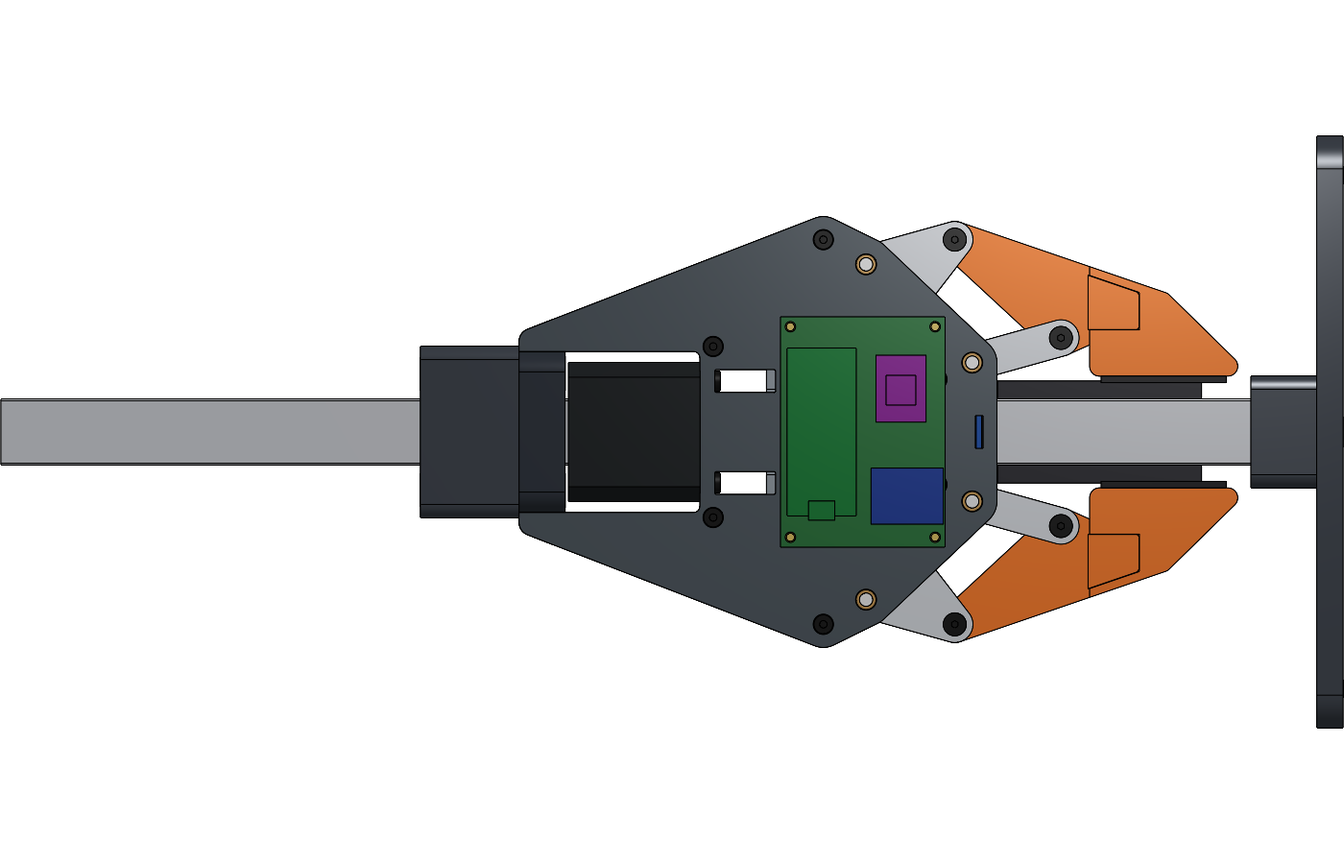
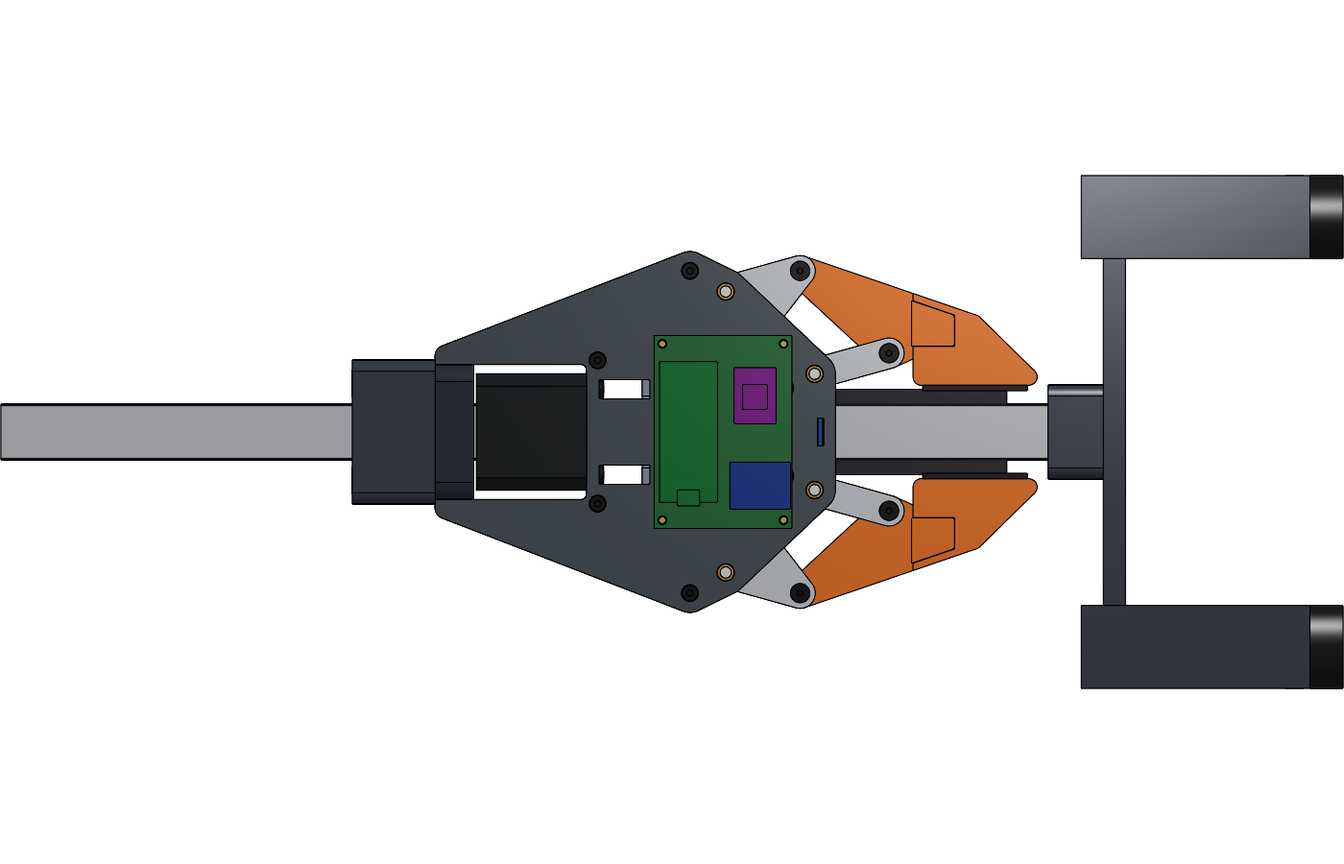
Desk clamps for the bench stand (40 x 40 mm desk edge)
- 2 printed C-clamps hook over the base's front corners: the upper arm
  sits on the base with a boss in the corner counterbore, the spine runs
  down in front of the desk edge, and an M8 star knob in a captive nut
  pushes a printed pad up under the 40 mm black edge, 20 mm behind its
  front face; grips desks 24-49 mm thick
- Clamp checks at a hand-tight 400 N: spine SF 2.7, lower arm 2.6
- Prints 22/23 (clamps, on their side), 24 (pads); BOM P29/P30; assembly
  step; FeatureScript stand parts appended at the end
- 84 parts, 0 collisions for both tip sets; GripperV2 updated (SHA-256
  2247dc24e097f38b, 84 instances, 21/21 features OK, evCollision clean)

Changed region(s): [[0.0, 0.1556, 1.0, 0.8711]]

diff --git a/gripper_fabrication_rev7/source/make_docs.py b/gripper_fabrication_rev7/source/make_docs.py
@@ -40,6 +40,8 @@ bom = [
  ('P22', 'Resistors 100 k + 27 k (battery divider into Pico ADC0) + 10 k (EN pull-up), 100 nF at ADC0, 100 uF 35 V capacitor at TMC2209 VM', 1, ''),
  ('P23', '2020 aluminium extrusion, 400 mm (V-slot or T-slot)', 1, 'Bench stand column'),
  ('P24', 'M5 drop-in T-nut + M5 x 12 screw (4), M5 x 16 screw (1), 4 bench screws or M5 bolts', 1, 'Head bracket to column (2), base socket to column (2), base to column end (1, tap the end M5); base to the bench (4)'),
+ ('P29', 'M8 x 40 star knob screw (male thread) + M8 hex nut', 2, 'Desk clamps (nut drops into the slot in each clamp)'),
+ ('P30', 'Self-adhesive felt pads, about 25 mm', 4, 'On the clamp pads and under the base front corners, to protect the desk'),
  ('P25', 'M6 x 20 socket head cap screw ISO 4762 + M6 hex nut', 4, 'Adapter to the stand head bracket (nuts drop into the bracket from the back)'),
  ('P26', 'TPU 95A filament', 1, 'Contact pads (18_Pad_TPU95A, 4 pcs)'),
 ]
@@ -81,7 +83,7 @@ A(f'- **Trade-offs of the longer tips:** the gripper is {D.TIP_EXT:.0f} mm longe
 A(f'- **C, encoder:** AS5600 with a 6 × 2.5 mm diametric magnet in a printed puck at the screw end (screw cut {D.ENC_CUT:.0f} mm shorter). The board stands in a slot across the bearing block, {D.ENC_GAP} mm air gap; the block bolts moved to ears at the rear of the block.')
 A('- **D, controller:** Pico + TMC2209 + 5 V buck + battery divider on a 50 × 70 mm protoboard, on 4 standoffs in heat-set inserts in the cover top. USB serial to ROS 2.')
 A(f'- **A, drive:** Tr8×8 (lead {D.LEAD:.0f} mm): {W["screw_turns"]:.1f} turns over the stroke, {D.STEPS_PER_MM:.0f} steps/mm, {drv["speed_note"]}. Driver {drv["I_set_rms_A"]} A RMS. Not self-locking.')
-A('- **F, bench stand:** the gripper hangs jaws-down from a 2020 × 400 mm column: printed head bracket on the ISO 9409 adapter, printed 180 × 170 mm base with 4 holes to fix it to the bench (fix it: unclamped, a few newtons at gripper height tip it over). The battery is strapped to the column, away from the jaws. Slide the bracket to set the height.')
+A('- **F, bench stand:** the gripper hangs jaws-down from a 2020 × 400 mm column: printed head bracket on the ISO 9409 adapter, printed 180 × 170 mm base, clamped to the desk edge by 2 printed C-clamps with M8 star knobs (sized for a 40 mm edge, 24–49 mm range); unclamped, a few newtons at gripper height would tip it over. The battery is strapped to the column, away from the jaws. Slide the bracket to set the height.')
 A(f'- **Power:** 3S LiPo (about 650 mAh, XT30) → 3 A fuse → switch → TMC2209 VM and the buck → Schottky → Pico VSYS. The battery divider sits after the switch (no drain when off). Firmware stops the motor below 10.5 V; a balance-lead alarm warns before the cells go too low, and the switch must be turned off after use (the Pico and buck still draw current).')
 A(f'- **Material:** printed parts in {D.MAT} (taken as {D.MAT_SY:.0f} MPa); pads in TPU 95A.\n')
 A('| Pico pin | Connects to |\n|---|---|')
@@ -206,7 +208,7 @@ for i, s_ in enumerate([
  'Tip blocks: slide a TPU pad into the tip block groove from the rear and press until the barb at its rear end snaps past the step at the groove entrance (a drop of soapy water helps; pliers to remove), push the tip block up onto the finger tongue from below and fit 2× M3×10 from below through its floor. To change sets, take the 2 screws out and slide the block off downward.',
  'Cover: put slow-cure epoxy in the 4 oversize cover holes, lower the cover over the sleeves and dowels, fit all its screws, and let the epoxy cure with the gripper assembled (the sleeves bond to the cover where the dowels really are). 2× M3×20 at the motor wall, 2× M3×20 at the bearing-block ears, 2× M3×8 at the posts, then the 2 upper motor screws (M3×8) through the cover slots.',
  'Controller: screw the 4 standoffs into the cover-top inserts and fit the protoboard (Pico, TMC2209, buck, divider; see the wiring table) with 4× M3×6. Zip-tie each cable (USB, battery, motor, encoder) to the board grid as strain relief.',
- 'Bench stand: column into the base socket, M5×16 from below into the column end (tap it M5) and 2× M5×12 through the socket walls into T-nuts. Screw or bolt the base to the bench through its 4 corner holes. Slide the head bracket onto the column and lock it with 2× M5×12 into T-nuts. Drop 4 M6 nuts into the bracket pockets from the back. Strap the battery to the column (side away from the gripper) and plug in the balance-lead alarm.',
+ 'Bench stand: column into the base socket, M5×16 from below into the column end (tap it M5) and 2× M5×12 through the socket walls into T-nuts. Desk clamps: drop an M8 nut into the slot of each clamp and thread the star knob in from below; put the front edge of the base flush with the front edge of the desk, hook a clamp over each front corner (its boss drops into the corner counterbore) and tighten the knobs by hand under the black edge. Slide the head bracket onto the column and lock it with 2× M5×12 into T-nuts. Drop 4 M6 nuts into the bracket pockets from the back. Strap the battery to the column (side away from the gripper) and plug in the balance-lead alarm.',
  'Bolt the adapter first: to a robot flange with 4× M6×12, or to the stand head bracket with 4× M6×20 into the nuts. Slide the gripper onto it (the U-slot is open at the rear) and fit 4× M3×8 through the side walls into the adapter inserts.',
  'Driver: set the VREF pot to %.2f A RMS full scale (section 4a), 1/16 µstep (%.0f steps/mm). Home at 0.3 A and 10 mm/s into the open stop (carriage meets the bearing block at 66 mm), detecting the stop with the encoder, then back off 1 mm; the AS5600 then tracks screw turns (4 over the full stroke). In use, cap the commanded opening at 60 mm (80 mm pad gap with the wide tips) so the carriage never hits the stop at speed. Keep the hold current on while gripping (the Tr8×8 is back-drivable). Stop the motor below 10.5 V on the battery monitor. Calibrate grip once with a kitchen scale between the jaws.' % (S['driver']['I_set_rms_A'], D.STEPS_PER_MM)]):
     A(f'{i+1}. {s_}')

diff --git a/gripper_fabrication_rev7/source/design.py b/gripper_fabrication_rev7/source/design.py
@@ -537,6 +537,39 @@ def stand_base():
     return ops
 def column():   # 2020 extrusion (slots not modelled)
     return [('add', ('extx', _col_loop(0.0), X_COL1 - COL_LEN, X_COL1))]
+# ---------- rev 7.1: desk clamps (Anurag's desk: black front edge 40 mm tall, 40 mm deep) ----------
+# Two printed C-clamps at the base's front corners (+z edge, flush with the desk's front face). The upper arm sits on
+# the base plate with a boss in the corner counterbore; the spine runs down in front of the desk edge; under the desk
+# an M8 star-knob screw in a captive nut pushes a printed pad up under the black edge, 20 mm behind the front face.
+# Grips desks 24-49 mm thick. Gripper frame: the desk top is the plane x = X_TABLE, the desk below it (+x).
+DESK_T, DESK_EDGE_D = 40.0, 40.0                 # clamped edge: thickness, depth of the black section
+CLP_W, CLP_SPINE, CLP_ARM = 30.0, 14.0, 12.0     # clamp width (y), spine and lower-arm thickness
+CLP_Z0 = BASE_Z[1] + 0.5                         # spine inner face, 0.5 mm in front of the desk front face
+CLP_SCREW_Z = BASE_Z[1] - 20.0                   # pad 20 mm behind the front face, under the black edge
+CLP_X1 = X_TABLE + 55.0                          # top face of the lower arm (pad + screw travel below the desk)
+def _clamp_y():
+    return BASE_Y[1] - 12.0                      # centred on the base's front-corner hole (+y side)
+def desk_clamp():
+    """C-clamp (+y corner; the -y one is its mirror). Prints lying on its -y side (nut slot opens upward)."""
+    yc, w = _clamp_y(), CLP_W/2; y0, y1 = yc - w, yc + w
+    xa = X_TABLE - BASE_T                        # base top face
+    zc = BASE_Z[1] - 12.0                        # corner hole
+    xn = CLP_X1 + 3.0                            # captive M8 nut (13 AF x 6.5) in the lower arm
+    return [('add', ('box', (xa - 8.0, y0, zc - 8.0), (xa, y1, CLP_Z0 + CLP_SPINE))),                     # upper arm
+            ('add', ('box', (xa - 8.0, y0, CLP_Z0), (CLP_X1 + CLP_ARM, y1, CLP_Z0 + CLP_SPINE))),       # spine
+            ('add', ('box', (CLP_X1, y0, X_TABLE*0 + BASE_Z[1] - DESK_EDGE_D), (CLP_X1 + CLP_ARM, y1, CLP_Z0 + CLP_SPINE))),   # lower arm
+            ('add', ('cyl', (xa - 0.01, yc, zc), (xa + 3.5, yc, zc), 4.8)),                         # boss into the counterbore
+            ('cut', ('cyl', (CLP_X1 - 1, yc, CLP_SCREW_Z), (CLP_X1 + CLP_ARM + 1, yc, CLP_SCREW_Z), 4.25)),  # M8 clearance
+            ('cut', ('box', (xn, yc - 7.6, CLP_SCREW_Z - 6.6), (xn + 6.8, y1 + 1, CLP_SCREW_Z + 6.6)))]       # nut slot from +y
+def clamp_pad():   # printed pad under the desk edge; the knob screw tip sits in its socket
+    xp = X_TABLE + DESK_T; yc = _clamp_y()
+    return [('add', ('cyl', (xp, yc, CLP_SCREW_Z), (xp + 6.0, yc, CLP_SCREW_Z), 12.0)),
+            ('cut', ('cyl', (xp + 3.0, yc, CLP_SCREW_Z), (xp + 7.0, yc, CLP_SCREW_Z), 4.3))]
+def knob_screw():  # M8 x 40 star knob (male), tip in the pad socket, knob under the lower arm
+    xp = X_TABLE + DESK_T; yc = _clamp_y(); xk = CLP_X1 + CLP_ARM
+    return [('add', ('cyl', (xp + 3.2, yc, CLP_SCREW_Z), (xk + 0.01, yc, CLP_SCREW_Z), 4.0)),
+            ('add', ('cyl', (xk, yc, CLP_SCREW_Z), (xk + 12.0, yc, CLP_SCREW_Z), 15.0))]
+
 def battery():   # 3S LiPo envelope, strapped to the column's far face (z side away from the gripper), clear of the jaws
     x0, x1, w, t = BAT; z1 = COL_Z - COL_A/2
     return [('add', ('box', (x0, -w/2, z1 - t), (x1, w/2, z1)))]
@@ -583,6 +616,7 @@ def pose(th, wide=None):
                     ('StandBracket', stand_bracket()), ('StandBase', stand_base()), ('Column', column()), ('Battery', battery())):
         parts[nm] = (ops, np.eye(4))
     add('Sleeve_O1', sleeve(O1), np.eye(4)); add('Sleeve_O2', sleeve(O2), np.eye(4)); add('LocPin', loc_pin(), np.eye(4))
+    add('StandClamp', desk_clamp(), np.eye(4)); add('StandClampPad', clamp_pad(), np.eye(4)); add('StandKnob', knob_screw(), np.eye(4))
     add('Standoff_R', standoff(CTRL_C[0] - CTRL_HOLE[0]), np.eye(4)); add('Standoff_F', standoff(CTRL_C[0] + CTRL_HOLE[0]), np.eye(4))
     for nm, seat, ax, ln, frame in FASTENERS:
         add(nm, button_screw(seat, ax, ln), Tm(np.eye(3), (C[0], 0, 0)) if frame == 'car' else np.eye(4))

diff --git a/gripper_fabrication_rev7/source/fs_gen.py b/gripper_fabrication_rev7/source/fs_gen.py
@@ -73,6 +73,11 @@ SPEC += [  # rev 7.1, appended after the stand so existing part ids stay put (re
     ('Bushing 4x6x6 O1', D.sleeve(D.O1), 'ground', True, '[0.72,0.55,0.30]', 'BRASS', True),
     ('Bushing 4x6x6 O2', D.sleeve(D.O2), 'ground', True, '[0.72,0.55,0.30]', 'BRASS', True),
     ('Dowel 3x16 block', D.loc_pin(), 'ground', True, '[0.86,0.86,0.86]', 'STEEL', True)]   # review item 12
+CLAMP = [  # rev 7.1: desk clamps for the bench stand (stand parts), appended at the end so existing part ids stay put
+    ('Stand desk clamp', D.desk_clamp(), 'ground', True, '[0.24,0.26,0.29]', D.MAT, False),
+    ('Stand clamp pad', D.clamp_pad(), 'ground', True, '[0.24,0.26,0.29]', D.MAT, False),
+    ('Knob screw M8x40', D.knob_screw(), 'ground', True, '[0.12,0.12,0.13]', 'STEEL', True)]
+SPEC += CLAMP
 WIDE = {'Tip block': D.tip_block(True), 'Pad TPU': D.pad(True)}   # ops used when the dialog's tip set is Wide
 consts = dict(L=D.L, R=D.r, LR=D.l, YC=D.YC, O1X=D.O1[0], O1Y=D.O1[1], O2X=D.O2[0], O2Y=D.O2[1],
               THC=np.degrees(D.TH_C), GAPMAX=D.GAP_MAX, RHO=D.MAT_RHO, WOFS=D.WIDE_OFS)
@@ -89,7 +94,7 @@ parts_src = []
 for k, (nm, ops, kind, mir, col, mat, pur) in enumerate(SPEC):
     parts_src.append('    { "name" : "%s", "kind" : "%s", "mirror" : %s, "color" : %s, "mat" : "%s", "purchased" : %s,%s\n      "ops" : %s%s }'
                      % (nm, kind, 'true' if mir else 'false', col, mat, 'true' if pur else 'false',
-                        ' "stand" : true,' if nm in [s[0] for s in STAND] else '', enc_ops(ops),
+                        ' "stand" : true,' if nm in [s[0] for s in STAND + CLAMP] else '', enc_ops(ops),
                         (',\n      "opsW" : ' + enc_ops(WIDE[nm])) if nm in WIDE else ''))
 
 FS = r'''FeatureScript 3083;

diff --git a/gripper_fabrication_rev7/source/render.py b/gripper_fabrication_rev7/source/render.py
@@ -1,7 +1,7 @@
 import numpy as np, matplotlib; matplotlib.use('Agg'); import matplotlib.pyplot as plt
 from mpl_toolkits.mplot3d.art3d import Poly3DCollection
 import design as D, check as C
-COL = {'Base': '#3d424a', 'Cover': '#4b515a', 'Adapter': '#2f343a', 'Carriage': '#8d939b', 'Finger': '#e8742a', 'TipBlock': '#e8742a', 'Pad': '#202124', 'BHT_': '#1b1b1b', 'EncPuck': '#4b515a', 'Magnet': '#9ea0a8', 'AS5600': '#1c4a9e', 'Protoboard': '#2a6b38', 'Pico': '#1f7a3a', 'TMC2209': '#7a2f86', 'Buck': '#23408a', 'Standoff': '#c8b060', 'Sleeve': '#b8894d', 'LocPin': '#dcdcdc', 'Stand': '#3d424a', 'Column': '#b9bcc0', 'Battery': '#2a2a2e',
+COL = {'Base': '#3d424a', 'Cover': '#4b515a', 'Adapter': '#2f343a', 'Carriage': '#8d939b', 'Finger': '#e8742a', 'TipBlock': '#e8742a', 'Pad': '#202124', 'BHT_': '#1b1b1b', 'EncPuck': '#4b515a', 'Magnet': '#9ea0a8', 'AS5600': '#1c4a9e', 'Protoboard': '#2a6b38', 'Pico': '#1f7a3a', 'TMC2209': '#7a2f86', 'Buck': '#23408a', 'Standoff': '#c8b060', 'Sleeve': '#b8894d', 'LocPin': '#dcdcdc', 'StandKnob': '#1f1f21', 'Stand': '#3d424a', 'Column': '#b9bcc0', 'Battery': '#2a2a2e',
        'BellCrank': '#c9cdd2', 'FrontCrank': '#c9cdd2', 'ConRod': '#b4b9bf', 'SS_': '#1b1b1b', 'Motor': '#222326',
        'LeadScrew': '#c4c6c8', 'T8_Nut': '#c9a24a', 'Bearing608': '#a9adb2', 'Dowel': '#dcdcdc'}
 def color(n):

diff --git a/gripper_fabrication_rev7/source/export.py b/gripper_fabrication_rev7/source/export.py
@@ -8,6 +8,7 @@ def orient(shape, how):
     if how == 'flip_x': s = s.rotate((0, 0, 0), (1, 0, 0), 180)
     if how == 'front_down': s = s.rotate((0, 0, 0), (0, 1, 0), 90)
     if how == 'side_py_down': s = s.rotate((0, 0, 0), (1, 0, 0), -90)
+    if how == 'side_my_down': s = s.rotate((0, 0, 0), (1, 0, 0), 90)
     if how == 'rear_down': s = s.rotate((0, 0, 0), (0, 1, 0), -90)
     bb = s.BoundingBox()
     return s.translate((-(bb.xmin+bb.xmax)/2, -(bb.ymin+bb.ymax)/2, -bb.zmin))
@@ -33,6 +34,9 @@ PRINT = [  # file, ops, orientation, qty, note
     ('19_EncoderPuck', D.enc_puck(), 'rear_down', 1, 'magnet pocket up; glue to the screw end'),
     ('20_Stand_HeadBracket', D.stand_bracket(), 'rear_down', 1, 'bench stand; back face on bed, nut pockets and column hole open upward'),
     ('21_Stand_Base', D.stand_base(), 'front_down', 1, 'bench stand; table face on bed, column socket up'),
+    ('22_Stand_DeskClamp_A', D.desk_clamp(), 'side_my_down', 1, 'desk clamp; lying on its side, nut slot up, 100% infill at the corners'),
+    ('23_Stand_DeskClamp_B_mirrored', mirror_ops(D.desk_clamp()), 'side_py_down', 1, 'mirror of 22'),
+    ('24_Stand_ClampPad', D.clamp_pad(), 'rear_down', 2, 'desk side down; stick felt on it'),
 ]
 info = []
 for fn, ops, how, qty, note in PRINT:

diff --git a/gripper_fabrication_rev7/source/structural.py b/gripper_fabrication_rev7/source/structural.py
@@ -108,6 +108,12 @@ tip = dict(Fg_max_N=round(Fg_max, 1), Fg_at_60mm_cap_N=round(Fg60, 1), factor_at
            Fg_in_use_N=round(Fg_use, 1), factor_in_use=round(Fg_max/Fg_use, 2),
            note='Tip rows use the grip at the 66 mm stop (max MA). Gripping is capped at 60 mm by firmware, where the grip '
                 'is at most Fg_at_60mm_cap_N, so the tip-row safety factors are factor_at_cap times higher in use.')
+# rev 7.1: desk clamp (bench stand), hand-tight knob, taken as 400 N; the C-frame bends at the spine and the arms
+F_cl = 400.0
+w_c = D.CLP_W
+arm_s = (D.CLP_Z0 + D.CLP_SPINE/2) - D.CLP_SCREW_Z
+add('Desk clamp spine bending (%.0f x %.0f, hand-tight 400 N)' % (w_c, D.CLP_SPINE), F_cl, F_cl*arm_s/(w_c*D.CLP_SPINE**2/6), PR['allow'], 'prints on its side: in-plane')
+add('Desk clamp lower arm at the spine (%.0f x %.0f)' % (w_c, D.CLP_ARM), F_cl, F_cl*(D.CLP_Z0 - D.CLP_SCREW_Z)/(w_c*D.CLP_ARM**2/6), PR['allow'], '')
 out = dict(rows=rows, driver=drv, thrust=thrust, tip=tip, dynamic=dynamic, current_schedule=schedule,
            min_SF=min(r['SF_yield_at_limit'] for r in rows),
            min_SF_in_use=round(min(r['SF_yield_at_limit'] for r in rows)*Fg_max/Fg_use, 1))

diff --git a/gripper_fabrication_rev7/DESIGN_REPORT.md b/gripper_fabrication_rev7/DESIGN_REPORT.md
@@ -12,10 +12,10 @@ Generated from the verified model (design.py → results.json, results_struct.js
 | Grip force per jaw | ≥ 26.8 N anywhere in range at 0.7 A RMS, worst-case screw friction (needs 21.0 N for 500 g) |
 | Holding | Tr8×8 is back-drivable (lead angle 20.0°): the driver hold current keeps the grip; with power off the jaws can be pushed open |
 | Structure | Min safety factor 0.6 vs yield at a 200 N screw-force limit case (the motor clamps at 78–110 N at 0.7 A). Grip-driven rows assume a far-tip grip at the 66 mm stop; in use (stall at 0.7 A, 60 mm cap, 82.6 N per jaw) they are 3.3× higher: min SF 2.0 in use |
-| Motion check | 0 collisions over 41 poses (78 parts with the stand and electronics, 20 modelled screws), for both tip sets; only intended joint/stack contacts below 0.8 mm |
+| Motion check | 0 collisions over 41 poses (84 parts with the stand and electronics, 20 modelled screws), for both tip sets; only intended joint/stack contacts below 0.8 mm |
 | Grip thrust | Screw reaction → lock collar → 608 inner ring → outer ring → block front lip. 608 static axial capacity ≈ 685 N vs 200 N limit (3.4×) |
 | Fasteners | 3 screw sizes on the gripper (12× M3×8, 4× M3×10, 4× M3×20 button head); min SF 2.3 under mount, stall and limit loads; tighten ≤ 0.15 N·m |
-| Printed volume | gripper with the narrow set 370 cm³ (~211 g at typical infill) + motor ~280 g; wide set 20 cm³; bench stand 394 cm³ |
+| Printed volume | gripper with the narrow set 479 cm³ (~274 g at typical infill) + motor ~280 g; wide set 20 cm³; bench stand 394 cm³ |
 | Mount | ISO 9409-1-50-4-M6 adapter (PCD 50, 4×M6, Ø31.5 spigot, Ø6 pin) |
 
 ## 1a. Rev 7 (v2) changes
@@ -25,7 +25,7 @@ Generated from the verified model (design.py → results.json, results_struct.js
 - **C, encoder:** AS5600 with a 6 × 2.5 mm diametric magnet in a printed puck at the screw end (screw cut 3 mm shorter). The board stands in a slot across the bearing block, 0.8 mm air gap; the block bolts moved to ears at the rear of the block.
 - **D, controller:** Pico + TMC2209 + 5 V buck + battery divider on a 50 × 70 mm protoboard, on 4 standoffs in heat-set inserts in the cover top. USB serial to ROS 2.
 - **A, drive:** Tr8×8 (lead 8 mm): 4.0 turns over the stroke, 400 steps/mm, 600 rpm -> 80 mm/s -> full stroke 0.4 s. Driver 0.7 A RMS. Not self-locking.
-- **F, bench stand:** the gripper hangs jaws-down from a 2020 × 400 mm column: printed head bracket on the ISO 9409 adapter, printed 180 × 170 mm base with 4 holes to fix it to the bench (fix it: unclamped, a few newtons at gripper height tip it over). The battery is strapped to the column, away from the jaws. Slide the bracket to set the height.
+- **F, bench stand:** the gripper hangs jaws-down from a 2020 × 400 mm column: printed head bracket on the ISO 9409 adapter, printed 180 × 170 mm base, clamped to the desk edge by 2 printed C-clamps with M8 star knobs (sized for a 40 mm edge, 24–49 mm range); unclamped, a few newtons at gripper height would tip it over. The battery is strapped to the column, away from the jaws. Slide the bracket to set the height.
 - **Power:** 3S LiPo (about 650 mAh, XT30) → 3 A fuse → switch → TMC2209 VM and the buck → Schottky → Pico VSYS. The battery divider sits after the switch (no drain when off). Firmware stops the motor below 10.5 V; a balance-lead alarm warns before the cells go too low, and the switch must be turned off after use (the Pico and buck still draw current).
 - **Material:** printed parts in ABS (taken as 30 MPa); pads in TPU 95A.
 
@@ -137,6 +137,8 @@ Jaw gap ↔ carriage position (for firmware; home = open stop, 400 steps/mm at 1
 | Finger bore at F2, far-tip grip on the pad edge | 543.0 | 52.42 | 28.79 | 0.6 |
 | Block front lip bearing on 608 outer ring | 200.0 | 1.31 | 0.72 | 23.0 |
 | Block front lip shear-out (1.45 mm lip) | 200.0 | 2.0 | 1.1 | 9.0 |
+| Desk clamp spine bending (30 x 14, hand-tight 400 N) | 400.0 | 11.22 | 6.16 | 2.7 |
+| Desk clamp lower arm at the spine (30 x 12) | 400.0 | 11.39 | 6.25 | 2.6 |
 
 **Grip thrust (rev 6):** closing the jaws pushes the carriage toward the motor, so the screw is pulled the other way. A lock collar behind the 608 carries that pull into the bearing inner ring; the outer ring bears on the block front lip, which is the base and cover halves clamped together. The motor's own bearing no longer takes the full reaction. Limit case 200 N vs ≈ 685 N 608 static axial capacity. Collar set-screw holding on the threaded screw is not rated: verify with a hand pull test before assembly.
 
@@ -202,6 +204,9 @@ Gripper mass 731 g (printed parts taken as solid, conservative), CG at x = -26 m
 | 19_EncoderPuck.stl | 1 | 0.07 | 7.9 × 7.9 × 2.9 | rear_down: magnet pocket up; glue to the screw end |
 | 20_Stand_HeadBracket.stl | 1 | 137.36 | 103.8 × 52.0 × 30.0 | rear_down: bench stand; back face on bed, nut pockets and column hole open upward |
 | 21_Stand_Base.stl | 1 | 256.3 | 170.0 × 180.0 × 28.0 | front_down: bench stand; table face on bed, column socket up |
+| 22_Stand_DeskClamp_A.stl | 1 | 52.29 | 83.0 × 54.5 × 30.0 | side_my_down: desk clamp; lying on its side, nut slot up, 100% infill at the corners |
+| 23_Stand_DeskClamp_B_mirrored.stl | 1 | 52.29 | 83.0 × 54.5 × 30.0 | side_py_down: mirror of 22 |
+| 24_Stand_ClampPad.stl | 2 | 2.54 | 24.0 × 24.0 × 6.0 | rear_down: desk side down; stick felt on it |
 
 **Print the fit coupons first**, in ABS on the same printer as the real parts: 13b_FitTest_rev7.stl (rev 7 fits: tongue and tip-block pocket stubs cut from the real parts, so install the 2 inserts and then test the slide fit and the M3×10 screws; AS5600 slot; M6 nut pocket; 2020 column socket; magnet puck, to try in a 608) and 13c_FitTest_pad_TPU95A.stl in TPU (it should snap into the pocket stub groove and not pull out by hand). Then 13_FitTest_coupons.stl (16 cm³, one plate). ABS shrinks more than PETG, so the rev 6 fits may need retuning. It checks every fit that depends on your printer: Ø3.9–4.2 pin bores in 6 mm plate, the three z-stacks with their 0.2/0.3 mm gaps, the 608 cradle (Ø22.06 seat, front lip, collar recess), and a 12.0 mm channel with an 11.6 mm tongue. If the 608 is loose, or a pin or the tongue binds, adjust the matching value in design.py before printing the real parts.
 
@@ -212,9 +217,9 @@ Print settings: ABS in an enclosed printer (a draft shield at minimum), part-coo
 
 **Status (rev 7, 2026-10-24 (rev 7.1 after the design review)):** the v2 design is in the Onshape document **GripperV2** (https://cad.onshape.com/documents/21eb00e5286d05130362fe39), a copy of the rev 6 document. The original "Lead Screw Gripper" document stays the rev 6 record.
 
-- Feature Studio 1 holds the rev 7 `LeadScrewGripper.fs` (43366 characters, SHA-256 f29064932af61cb0…, identical to the local file), written through the browser session (0 FeatureScript MCP requests).
-- The feature dialog now has **Tip set** (Narrow / Wide) and **Include bench stand**; it reports the pad-to-pad gap for the chosen set. Part Studio 1 builds 78 parts; every volume is within 1.22 mm³ of the local model, and the wide set matches too.
-- Assembly 1: 78 instances, 21/21 features OK. New rigid groups "Finger U + tip" and "Finger L + tip" (finger, tip block, pad, 2 tip screws); the encoder, controller and stand parts are in "Frame (fixed)". Slider at both limits: carriage +20.83 / −11.20 mm, fingers 18.00 / −15.00 mm, tips follow the fingers; past the limit it clamps. Left at 0 (gap 30). Record: source/results_onshape_rev7.json.
+- Feature Studio 1 holds the rev 7 `LeadScrewGripper.fs` (44356 characters, SHA-256 2247dc24e097f38b…, identical to the local file), written through the browser session (0 FeatureScript MCP requests).
+- The feature dialog now has **Tip set** (Narrow / Wide) and **Include bench stand**; it reports the pad-to-pad gap for the chosen set. Part Studio 1 builds 84 parts; every volume is within 1.22 mm³ of the local model, and the wide set matches too.
+- Assembly 1: 84 instances, 21/21 features OK. New rigid groups "Finger U + tip" and "Finger L + tip" (finger, tip block, pad, 2 tip screws); the encoder, controller and stand parts are in "Frame (fixed)". Slider at both limits: carriage +20.83 / −11.20 mm, fingers 18.00 / −15.00 mm, tips follow the fingers; past the limit it clamps. Left at 0 (gap 30). Record: source/results_onshape_rev7.json.
 - Pictures: images/onshape_v2_assembly_iso.png, images/onshape_v2_assembly_top.png, images/onshape_v2_partstudio_iso.png. The "Robot export" assembly is unchanged (ROS 2 phase).
 
 **Rev 6 record (original document):**
@@ -275,7 +280,7 @@ Onshape document **Lead Screw Gripper**: https://cad.onshape.com/documents/95059
 9. Tip blocks: slide a TPU pad into the tip block groove from the rear and press until the barb at its rear end snaps past the step at the groove entrance (a drop of soapy water helps; pliers to remove), push the tip block up onto the finger tongue from below and fit 2× M3×10 from below through its floor. To change sets, take the 2 screws out and slide the block off downward.
 10. Cover: put slow-cure epoxy in the 4 oversize cover holes, lower the cover over the sleeves and dowels, fit all its screws, and let the epoxy cure with the gripper assembled (the sleeves bond to the cover where the dowels really are). 2× M3×20 at the motor wall, 2× M3×20 at the bearing-block ears, 2× M3×8 at the posts, then the 2 upper motor screws (M3×8) through the cover slots.
 11. Controller: screw the 4 standoffs into the cover-top inserts and fit the protoboard (Pico, TMC2209, buck, divider; see the wiring table) with 4× M3×6. Zip-tie each cable (USB, battery, motor, encoder) to the board grid as strain relief.
-12. Bench stand: column into the base socket, M5×16 from below into the column end (tap it M5) and 2× M5×12 through the socket walls into T-nuts. Screw or bolt the base to the bench through its 4 corner holes. Slide the head bracket onto the column and lock it with 2× M5×12 into T-nuts. Drop 4 M6 nuts into the bracket pockets from the back. Strap the battery to the column (side away from the gripper) and plug in the balance-lead alarm.
+12. Bench stand: column into the base socket, M5×16 from below into the column end (tap it M5) and 2× M5×12 through the socket walls into T-nuts. Desk clamps: drop an M8 nut into the slot of each clamp and thread the star knob in from below; put the front edge of the base flush with the front edge of the desk, hook a clamp over each front corner (its boss drops into the corner counterbore) and tighten the knobs by hand under the black edge. Slide the head bracket onto the column and lock it with 2× M5×12 into T-nuts. Drop 4 M6 nuts into the bracket pockets from the back. Strap the battery to the column (side away from the gripper) and plug in the balance-lead alarm.
 13. Bolt the adapter first: to a robot flange with 4× M6×12, or to the stand head bracket with 4× M6×20 into the nuts. Slide the gripper onto it (the U-slot is open at the rear) and fit 4× M3×8 through the side walls into the adapter inserts.
 14. Driver: set the VREF pot to 0.70 A RMS full scale (section 4a), 1/16 µstep (400 steps/mm). Home at 0.3 A and 10 mm/s into the open stop (carriage meets the bearing block at 66 mm), detecting the stop with the encoder, then back off 1 mm; the AS5600 then tracks screw turns (4 over the full stroke). In use, cap the commanded opening at 60 mm (80 mm pad gap with the wide tips) so the carriage never hits the stop at speed. Keep the hold current on while gripping (the Tr8×8 is back-drivable). Stop the motor below 10.5 V on the battery monitor. Calibrate grip once with a kitchen scale between the jaws.
 

diff --git a/GRIPPER_HANDOFF.md b/GRIPPER_HANDOFF.md
@@ -221,7 +221,7 @@ Steps 1–8 are done and committed on `v2/handoff-decisions` (not pushed). Full 
 - **Checks:** 72 valid parts, 0 collisions over 41 poses for both tip sets (`check.py 41`; run `GRIPPER_TIPSET=wide python3 check.py 41` for the wide set, which writes `*_wide.json`). Only intended contacts under 0.8 mm.
 - **Structure (ABS 30 MPa, 200 N screw-force limit, far-tip grip at the 66 mm stop):** min SF 1.7 (finger bore and boss at F2, tip screws). At the 60 mm firmware cap these rows are 1.81× higher (≥ 3.0). Tongue alone carries the seam moment at SF 2.7. Fasteners min SF 2.3.
 - **Drive:** Tr8x8, driver 0.70 A RMS (stall 78–110 N), grip ≥ 26.8 N per jaw, 400 steps/mm, full stroke 0.4 s, not self-locking.
-- **Onshape `GripperV2`:** Feature Studio updated (rev 7.1: SHA-256 `f29064932af61cb0`), 72 parts within 1.3 mm³ of local, dialog has Tip set + Include bench stand. Assembly 1: 72 instances, 21/21 features OK, new groups "Finger U + tip" / "Finger L + tip", slider verified at both limits, left at 0. FeatureScript MCP requests used: 0.
+- **Onshape `GripperV2`:** Feature Studio updated (rev 7.1 with desk clamps: SHA-256 `2247dc24e097f38b`, 84 parts), 72 parts within 1.3 mm³ of local, dialog has Tip set + Include bench stand. Assembly 1: 72 instances, 21/21 features OK, new groups "Finger U + tip" / "Finger L + tip", slider verified at both limits, left at 0. FeatureScript MCP requests used: 0.
 
 **Calls made without asking (Anurag said not to stop for questions):**
 1. Tip joint: finger keeps a 20 mm tongue; tip block slides up onto it, 2× M3×16 from the top into inserts in the tongue. Pad: one TPU pad for both sets, 45° dovetail key sliding in from the rear.

diff --git a/docs/DESIGN_REVIEW_2026-10-24.md b/docs/DESIGN_REVIEW_2026-10-24.md
@@ -12,7 +12,7 @@ An independent agent, briefed as a senior mechanical design engineer (brief: `do
 | 5 Dynamics / homing | Documented: hard-stop estimate, homing at 0.3 A and 10 mm/s with the encoder detecting the stop. **Needs input:** the motor's axial load rating and rotor inertia | 03488d6 |
 | 6 Driver current | Documented: VREF ceiling + i_scale_analog, EN pull-up, re-init after driver reset (BOM updated) | 03488d6 |
 | 7 Battery | Fixed: strapped to the column, ≥ 45 mm from every gripper part; fuse before the switch, divider after it, balance-lead alarm | b032bca |
-| 8 Stand stability | Fixed by anchoring: 180 × 170 base with 4 bench holes, 2 more M5 at the column foot. Unclamped it still tips at about 5 N. **Needs input:** can it be fixed to the bench? | b032bca |
+| 8 Stand stability | Fixed: 180 × 170 base, 2 more M5 at the column foot, and 2 printed C-clamps with M8 star knobs that clamp the base's front corners to Anurag's desk edge (40 × 40 mm black edge; range 24–49 mm). Unclamped it would tip at about 5 N | b032bca + desk clamps |
 | 9 Grip schedule | Documented: run-current table against the gap for about 30 N per jaw | 03488d6 |
 | 10 Encoder in the 608 | **Needs a bench test** (procedure in the report section 4a) before printing the bearing block; redesign only if the field is too weak | 03488d6 |
 | 11 Fit coupons | Fixed: 13b (rev 7 fits, cut from the real parts) and 13c (TPU pad snap) | 7cf320d |
